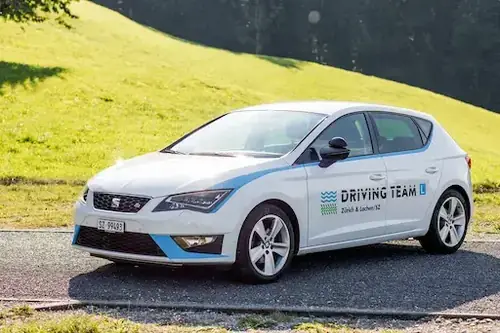
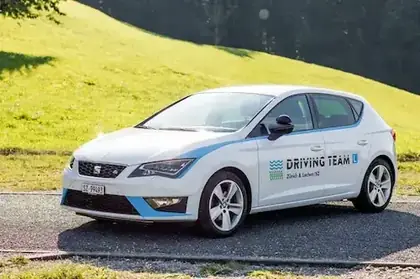
perf: resize card images to 420px and compress to quality 72 for faster load
Made-with: Cursor

diff --git a/apps/website/pages/index.vue b/apps/website/pages/index.vue
@@ -41,7 +41,7 @@
             <!-- Auto -->
             <a href="/auto-fahrschule/" class="category-card group relative overflow-hidden rounded-2xl shadow-lg hover:shadow-2xl transition-all duration-500 transform hover:-translate-y-2">
               <div class="absolute inset-0 bg-gradient-to-br from-primary-500 to-primary-700 group-hover:from-primary-600 group-hover:to-primary-800 transition-all duration-500"></div>
-              <img src="/images/categories/auto-fahrschule.webp" width="500" height="336" alt="Auto Fahrschule Zürich - Kategorie B Fahrstunden mit Driving Team" class="absolute inset-0 w-full h-full object-cover opacity-20 group-hover:opacity-40 transition-all duration-500" loading="eager" fetchpriority="high" />
+              <img src="/images/categories/auto-fahrschule.webp" width="420" height="282" alt="Auto Fahrschule Zürich - Kategorie B Fahrstunden mit Driving Team" class="absolute inset-0 w-full h-full object-cover opacity-20 group-hover:opacity-40 transition-all duration-500" loading="eager" fetchpriority="high" />
               <div class="absolute inset-0 opacity-0 group-hover:opacity-20 bg-white transition-opacity duration-500"></div>
               <div class="relative p-8 h-full flex flex-col justify-center items-center z-10 text-center">
                 <div class="opacity-100 group-hover:opacity-0 transition-opacity duration-300">
@@ -57,7 +57,7 @@
             <!-- Motorrad -->
             <a href="/motorrad-fahrschule/" class="category-card group relative overflow-hidden rounded-2xl shadow-lg hover:shadow-2xl transition-all duration-500 transform hover:-translate-y-2" style="animation-delay: 0.1s">
               <div class="absolute inset-0 bg-gradient-to-br from-red-500 to-red-700 group-hover:from-red-600 group-hover:to-red-800 transition-all duration-500"></div>
-              <img src="/images/categories/motorrad-fahrschule.webp" width="500" height="332" alt="Motorrad Fahrschule Zürich - Kategorie A1, A35kW, A mit Driving Team" class="absolute inset-0 w-full h-full object-cover opacity-20 group-hover:opacity-40 transition-all duration-500" loading="lazy" />
+              <img src="/images/categories/motorrad-fahrschule.webp" width="420" height="278" alt="Motorrad Fahrschule Zürich - Kategorie A1, A35kW, A mit Driving Team" class="absolute inset-0 w-full h-full object-cover opacity-20 group-hover:opacity-40 transition-all duration-500" loading="lazy" />
               <div class="absolute inset-0 opacity-0 group-hover:opacity-20 bg-white transition-opacity duration-500"></div>
               <div class="relative p-8 h-full flex flex-col justify-center items-center z-10 text-center">
                 <div class="opacity-100 group-hover:opacity-0 transition-opacity duration-300">
@@ -73,7 +73,7 @@
             <!-- Lastwagen -->
             <a href="/lastwagen-fahrschule/" class="category-card group relative overflow-hidden rounded-2xl shadow-lg hover:shadow-2xl transition-all duration-500 transform hover:-translate-y-2" style="animation-delay: 0.2s">
               <div class="absolute inset-0 bg-gradient-to-br from-yellow-500 to-yellow-700 group-hover:from-yellow-600 group-hover:to-yellow-800 transition-all duration-500"></div>
-              <img src="/images/categories/lastwagen-fahrschule.webp" width="500" height="328" alt="Lastwagen Fahrschule Zürich - Kategorie C1, C, CE mit Driving Team" class="absolute inset-0 w-full h-full object-cover opacity-20 group-hover:opacity-40 transition-all duration-500" loading="lazy" />
+              <img src="/images/categories/lastwagen-fahrschule.webp" width="420" height="275" alt="Lastwagen Fahrschule Zürich - Kategorie C1, C, CE mit Driving Team" class="absolute inset-0 w-full h-full object-cover opacity-20 group-hover:opacity-40 transition-all duration-500" loading="lazy" />
               <div class="absolute inset-0 opacity-0 group-hover:opacity-20 bg-white transition-opacity duration-500"></div>
               <div class="relative p-8 h-full flex flex-col justify-center items-center z-10 text-center">
                 <div class="opacity-100 group-hover:opacity-0 transition-opacity duration-300">
@@ -89,7 +89,7 @@
             <!-- Taxi -->
             <a href="/taxi-fahrschule/" class="category-card group relative overflow-hidden rounded-2xl shadow-lg hover:shadow-2xl transition-all duration-500 transform hover:-translate-y-2" style="animation-delay: 0.3s">
               <div class="absolute inset-0 bg-gradient-to-br from-purple-500 to-purple-700 group-hover:from-purple-600 group-hover:to-purple-800 transition-all duration-500"></div>
-              <img src="/images/categories/taxi-fahrschule.webp" width="500" height="333" alt="Taxi Fahrschule Zürich - BPT 121 & 122 mit Driving Team" class="absolute inset-0 w-full h-full object-cover opacity-20 group-hover:opacity-40 transition-all duration-500" loading="lazy" />
+              <img src="/images/categories/taxi-fahrschule.webp" width="420" height="279" alt="Taxi Fahrschule Zürich - BPT 121 & 122 mit Driving Team" class="absolute inset-0 w-full h-full object-cover opacity-20 group-hover:opacity-40 transition-all duration-500" loading="lazy" />
               <div class="absolute inset-0 opacity-0 group-hover:opacity-20 bg-white transition-opacity duration-500"></div>
               <div class="relative p-8 h-full flex flex-col justify-center items-center z-10 text-center">
                 <div class="opacity-100 group-hover:opacity-0 transition-opacity duration-300">
@@ -105,7 +105,7 @@
             <!-- Bus -->
             <a href="/bus-fahrschule/" class="category-card group relative overflow-hidden rounded-2xl shadow-lg hover:shadow-2xl transition-all duration-500 transform hover:-translate-y-2" style="animation-delay: 0.4s">
               <div class="absolute inset-0 bg-gradient-to-br from-green-500 to-green-700 group-hover:from-green-600 group-hover:to-green-800 transition-all duration-500"></div>
-              <img src="/images/categories/bus-fahrschule.webp" width="500" height="281" alt="Bus Fahrschule Zürich - Kategorie D1 & D mit Driving Team" class="absolute inset-0 w-full h-full object-cover opacity-20 group-hover:opacity-40 transition-all duration-500" loading="lazy" />
+              <img src="/images/categories/bus-fahrschule.webp" width="420" height="236" alt="Bus Fahrschule Zürich - Kategorie D1 & D mit Driving Team" class="absolute inset-0 w-full h-full object-cover opacity-20 group-hover:opacity-40 transition-all duration-500" loading="lazy" />
               <div class="absolute inset-0 opacity-0 group-hover:opacity-20 bg-white transition-opacity duration-500"></div>
               <div class="relative p-8 h-full flex flex-col justify-center items-center z-10 text-center">
                 <div class="opacity-100 group-hover:opacity-0 transition-opacity duration-300">
@@ -121,7 +121,7 @@
             <!-- Anhänger -->
             <a href="/anhaenger-fahrschule/" class="category-card group relative overflow-hidden rounded-2xl shadow-lg hover:shadow-2xl transition-all duration-500 transform hover:-translate-y-2" style="animation-delay: 0.5s">
               <div class="absolute inset-0 bg-gradient-to-br from-orange-500 to-orange-700 group-hover:from-orange-600 group-hover:to-orange-800 transition-all duration-500"></div>
-              <img src="/images/categories/anhaenger-fahrschule-new.webp" width="500" height="333" alt="Anhänger Fahrschule Zürich - Kategorie BE mit Driving Team" class="absolute inset-0 w-full h-full object-cover opacity-20 group-hover:opacity-40 transition-all duration-500" loading="lazy" />
+              <img src="/images/categories/anhaenger-fahrschule-new.webp" width="420" height="279" alt="Anhänger Fahrschule Zürich - Kategorie BE mit Driving Team" class="absolute inset-0 w-full h-full object-cover opacity-20 group-hover:opacity-40 transition-all duration-500" loading="lazy" />
               <div class="absolute inset-0 opacity-0 group-hover:opacity-20 bg-white transition-opacity duration-500"></div>
               <div class="relative p-8 h-full flex flex-col justify-center items-center z-10 text-center">
                 <div class="opacity-100 group-hover:opacity-0 transition-opacity duration-300">
@@ -137,7 +137,7 @@
             <!-- Motorboot -->
             <a href="/motorboot/" class="category-card group relative overflow-hidden rounded-2xl shadow-lg hover:shadow-2xl transition-all duration-500 transform hover:-translate-y-2" style="animation-delay: 0.6s">
               <div class="absolute inset-0 bg-gradient-to-br from-cyan-500 to-cyan-700 group-hover:from-cyan-600 group-hover:to-cyan-800 transition-all duration-500"></div>
-              <img src="/images/categories/motorboot.webp" width="500" height="333" alt="Motorboot Fahrschule Zürichsee - Kategorie A mit Driving Team" class="absolute inset-0 w-full h-full object-cover opacity-20 group-hover:opacity-40 transition-all duration-500" loading="lazy" />
+              <img src="/images/categories/motorboot.webp" width="420" height="279" alt="Motorboot Fahrschule Zürichsee - Kategorie A mit Driving Team" class="absolute inset-0 w-full h-full object-cover opacity-20 group-hover:opacity-40 transition-all duration-500" loading="lazy" />
               <div class="absolute inset-0 opacity-0 group-hover:opacity-20 bg-white transition-opacity duration-500"></div>
               <div class="relative p-8 h-full flex flex-col justify-center items-center z-10 text-center">
                 <div class="opacity-100 group-hover:opacity-0 transition-opacity duration-300">
@@ -153,7 +153,7 @@
             <!-- Kontrollfahrt -->
             <a href="/kontrollfahrt/" class="category-card group relative overflow-hidden rounded-2xl shadow-lg hover:shadow-2xl transition-all duration-500 transform hover:-translate-y-2" style="animation-delay: 0.7s">
               <div class="absolute inset-0 bg-gradient-to-br from-primary-500 to-primary-700 group-hover:from-primary-600 group-hover:to-primary-800 transition-all duration-500"></div>
-              <img src="/images/categories/kontrollfahrt.webp" width="500" height="333" alt="Kontrollfahrt Zürich - Fahrertest für alle Kategorien mit Driving Team" class="absolute inset-0 w-full h-full object-cover opacity-20 group-hover:opacity-40 transition-all duration-500" loading="lazy" />
+              <img src="/images/categories/kontrollfahrt.webp" width="420" height="279" alt="Kontrollfahrt Zürich - Fahrertest für alle Kategorien mit Driving Team" class="absolute inset-0 w-full h-full object-cover opacity-20 group-hover:opacity-40 transition-all duration-500" loading="lazy" />
               <div class="absolute inset-0 opacity-0 group-hover:opacity-20 bg-white transition-opacity duration-500"></div>
               <div class="relative p-8 h-full flex flex-col justify-center items-center z-10 text-center">
                 <div class="opacity-100 group-hover:opacity-0 transition-opacity duration-300">
@@ -197,7 +197,7 @@
             <!-- Auto Theorie -->
             <a href="/auto-theorie/" class="category-card group relative overflow-hidden rounded-2xl shadow-lg hover:shadow-2xl transition-all duration-500 transform hover:-translate-y-2 h-40 md:h-48">
               <div class="absolute inset-0 bg-gradient-to-br from-primary-500 to-primary-700 group-hover:from-primary-600 group-hover:to-primary-800 transition-all duration-500"></div>
-              <img src="/images/courses/theorie.webp" width="500" height="333" alt="Auto Theorie" class="absolute inset-0 w-full h-full object-cover opacity-20 group-hover:opacity-40 transition-all duration-500" loading="lazy" />
+              <img src="/images/courses/theorie.webp" width="420" height="279" alt="Auto Theorie" class="absolute inset-0 w-full h-full object-cover opacity-20 group-hover:opacity-40 transition-all duration-500" loading="lazy" />
               <div class="absolute inset-0 opacity-0 group-hover:opacity-20 bg-white transition-opacity duration-500"></div>
               <div class="relative p-6 h-full flex flex-col justify-center items-center z-10 text-center">
                 <div class="opacity-100 group-hover:opacity-0 transition-opacity duration-300">
@@ -212,7 +212,7 @@
             <!-- Nothelferkurse -->
             <a href="/nothelferkurs/" class="category-card group relative overflow-hidden rounded-2xl shadow-lg hover:shadow-2xl transition-all duration-500 transform hover:-translate-y-2 h-40 md:h-48" style="animation-delay: 0.1s">
               <div class="absolute inset-0 bg-gradient-to-br from-red-500 to-red-700 group-hover:from-red-600 group-hover:to-red-800 transition-all duration-500"></div>
-              <img src="/images/courses/nothelfer.webp" width="500" height="333" alt="Nothelferkurse" class="absolute inset-0 w-full h-full object-cover opacity-20 group-hover:opacity-40 transition-all duration-500" loading="lazy" />
+              <img src="/images/courses/nothelfer.webp" width="420" height="279" alt="Nothelferkurse" class="absolute inset-0 w-full h-full object-cover opacity-20 group-hover:opacity-40 transition-all duration-500" loading="lazy" />
               <div class="absolute inset-0 opacity-0 group-hover:opacity-20 bg-white transition-opacity duration-500"></div>
               <div class="relative p-6 h-full flex flex-col justify-center items-center z-10 text-center">
                 <div class="opacity-100 group-hover:opacity-0 transition-opacity duration-300">
@@ -227,7 +227,7 @@
             <!-- Motorrad Grundkurs -->
             <a href="/motorrad-grundkurs/" class="category-card group relative overflow-hidden rounded-2xl shadow-lg hover:shadow-2xl transition-all duration-500 transform hover:-translate-y-2 h-40 md:h-48" style="animation-delay: 0.2s">
               <div class="absolute inset-0 bg-gradient-to-br from-orange-500 to-orange-700 group-hover:from-orange-600 group-hover:to-orange-800 transition-all duration-500"></div>
-              <img src="/images/courses/motorrad-grundkurs.webp" width="500" height="296" alt="Motorrad Grundkurs" class="absolute inset-0 w-full h-full object-cover opacity-20 group-hover:opacity-40 transition-all duration-500" loading="lazy" />
+              <img src="/images/courses/motorrad-grundkurs.webp" width="420" height="248" alt="Motorrad Grundkurs" class="absolute inset-0 w-full h-full object-cover opacity-20 group-hover:opacity-40 transition-all duration-500" loading="lazy" />
               <div class="absolute inset-0 opacity-0 group-hover:opacity-20 bg-white transition-opacity duration-500"></div>
               <div class="relative p-6 h-full flex flex-col justify-center items-center z-10 text-center">
                 <div class="opacity-100 group-hover:opacity-0 transition-opacity duration-300">
@@ -242,7 +242,7 @@
             <!-- VKU Kurse -->
             <a href="/vku-kurse/" class="category-card group relative overflow-hidden rounded-2xl shadow-lg hover:shadow-2xl transition-all duration-500 transform hover:-translate-y-2 h-40 md:h-48" style="animation-delay: 0.3s">
               <div class="absolute inset-0 bg-gradient-to-br from-green-500 to-green-700 group-hover:from-green-600 group-hover:to-green-800 transition-all duration-500"></div>
-              <img src="/images/courses/vku.webp" width="500" height="333" alt="VKU Kurse" class="absolute inset-0 w-full h-full object-cover opacity-20 group-hover:opacity-40 transition-all duration-500" loading="lazy" />
+              <img src="/images/courses/vku.webp" width="420" height="279" alt="VKU Kurse" class="absolute inset-0 w-full h-full object-cover opacity-20 group-hover:opacity-40 transition-all duration-500" loading="lazy" />
               <div class="absolute inset-0 opacity-0 group-hover:opacity-20 bg-white transition-opacity duration-500"></div>
               <div class="relative p-6 h-full flex flex-col justify-center items-center z-10 text-center">
                 <div class="opacity-100 group-hover:opacity-0 transition-opacity duration-300">
@@ -265,7 +265,7 @@
             <!-- CZV Grundkurs -->
             <a href="/czv-grundkurs/" class="category-card group relative overflow-hidden rounded-2xl shadow-lg hover:shadow-2xl transition-all duration-500 transform hover:-translate-y-2 h-40 md:h-48">
               <div class="absolute inset-0 bg-gradient-to-br from-primary-500 to-primary-700 group-hover:from-primary-600 group-hover:to-primary-800 transition-all duration-500"></div>
-              <img src="/images/czv-grundkurs.webp" width="500" height="333" alt="CZV Grundkurs" class="absolute inset-0 w-full h-full object-cover opacity-20 group-hover:opacity-40 transition-all duration-500" loading="lazy" />
+              <img src="/images/czv-grundkurs.webp" width="420" height="279" alt="CZV Grundkurs" class="absolute inset-0 w-full h-full object-cover opacity-20 group-hover:opacity-40 transition-all duration-500" loading="lazy" />
               <div class="absolute inset-0 opacity-0 group-hover:opacity-20 bg-white transition-opacity duration-500"></div>
               <div class="relative p-6 h-full flex flex-col justify-center items-center z-10 text-center">
                 <div class="opacity-100 group-hover:opacity-0 transition-opacity duration-300">
@@ -280,7 +280,7 @@
             <!-- CZV Weiterbildung -->
             <a href="/czv-weiterbildung/" class="category-card group relative overflow-hidden rounded-2xl shadow-lg hover:shadow-2xl transition-all duration-500 transform hover:-translate-y-2 h-40 md:h-48" style="animation-delay: 0.1s">
               <div class="absolute inset-0 bg-gradient-to-br from-pink-500 to-pink-700 group-hover:from-pink-600 group-hover:to-pink-800 transition-all duration-500"></div>
-              <img src="/images/courses/czv-weiterbildung.webp" width="500" height="332" alt="CZV Weiterbildung" class="absolute inset-0 w-full h-full object-cover opacity-20 group-hover:opacity-40 transition-all duration-500" loading="lazy" />
+              <img src="/images/courses/czv-weiterbildung.webp" width="420" height="278" alt="CZV Weiterbildung" class="absolute inset-0 w-full h-full object-cover opacity-20 group-hover:opacity-40 transition-all duration-500" loading="lazy" />
               <div class="absolute inset-0 opacity-0 group-hover:opacity-20 bg-white transition-opacity duration-500"></div>
               <div class="relative p-6 h-full flex flex-col justify-center items-center z-10 text-center">
                 <div class="opacity-100 group-hover:opacity-0 transition-opacity duration-300">
@@ -295,7 +295,7 @@
             <!-- WAB Kurse -->
             <a href="/wab-kurse/" class="category-card group relative overflow-hidden rounded-2xl shadow-lg hover:shadow-2xl transition-all duration-500 transform hover:-translate-y-2 h-40 md:h-48" style="animation-delay: 0.2s">
               <div class="absolute inset-0 bg-gradient-to-br from-teal-500 to-teal-700 group-hover:from-teal-600 group-hover:to-teal-800 transition-all duration-500"></div>
-              <img src="/images/wab-kurs.webp" width="500" height="418" alt="WAB Kurse" class="absolute inset-0 w-full h-full object-cover opacity-20 group-hover:opacity-40 transition-all duration-500" loading="lazy" />
+              <img src="/images/wab-kurs.webp" width="420" height="351" alt="WAB Kurse" class="absolute inset-0 w-full h-full object-cover opacity-20 group-hover:opacity-40 transition-all duration-500" loading="lazy" />
               <div class="absolute inset-0 opacity-0 group-hover:opacity-20 bg-white transition-opacity duration-500"></div>
               <div class="relative p-6 h-full flex flex-col justify-center items-center z-10 text-center">
                 <div class="opacity-100 group-hover:opacity-0 transition-opacity duration-300">
@@ -310,7 +310,7 @@
             <!-- Motorrad-Weiterbildung -->
             <a href="/motorrad-weiterbildung/" class="category-card group relative overflow-hidden rounded-2xl shadow-lg hover:shadow-2xl transition-all duration-500 transform hover:-translate-y-2 h-40 md:h-48" style="animation-delay: 0.3s">
               <div class="absolute inset-0 bg-gradient-to-br from-purple-500 to-purple-700 group-hover:from-purple-600 group-hover:to-purple-800 transition-all duration-500"></div>
-              <img src="/images/motorrad-weiterbildung.webp" width="500" height="333" alt="Motorrad-Weiterbildung" class="absolute inset-0 w-full h-full object-cover opacity-20 group-hover:opacity-40 transition-all duration-500" loading="lazy" />
+              <img src="/images/motorrad-weiterbildung.webp" width="420" height="279" alt="Motorrad-Weiterbildung" class="absolute inset-0 w-full h-full object-cover opacity-20 group-hover:opacity-40 transition-all duration-500" loading="lazy" />
               <div class="absolute inset-0 opacity-0 group-hover:opacity-20 bg-white transition-opacity duration-500"></div>
               <div class="relative p-6 h-full flex flex-col justify-center items-center z-10 text-center">
                 <div class="opacity-100 group-hover:opacity-0 transition-opacity duration-300">

diff --git a/apps/website/components/PriceSection.vue b/apps/website/components/PriceSection.vue
@@ -11,7 +11,7 @@
           @scroll.passive="onScroll"
         >
           <!-- Kategorie B - Auto -->
-          <div class="price-card snap-center shrink-0 w-[80vw] sm:w-[55vw] md:w-[40vw] lg:w-[28vw] max-w-sm bg-gradient-to-br from-primary-50 to-primary-100 rounded-2xl p-6 shadow-lg">
+          <div class="snap-center shrink-0 w-[80vw] sm:w-[55vw] md:w-[40vw] lg:w-[28vw] max-w-sm bg-gradient-to-br from-primary-50 to-primary-100 rounded-2xl p-6 shadow-lg transition-[transform,box-shadow] duration-300 ease-in-out hover:-translate-y-1 hover:shadow-[0_16px_40px_rgba(0,0,0,0.12)]">
             <div class="text-3xl mb-3">🚗</div>
             <h3 class="text-xl font-bold text-gray-900 mb-1">Auto</h3>
             <p class="text-sm text-gray-600 mb-5">Kategorie B · 45 Min</p>
@@ -31,7 +31,7 @@
           </div>
 
           <!-- Kategorie A - Motorrad -->
-          <div class="price-card snap-center shrink-0 w-[80vw] sm:w-[55vw] md:w-[40vw] lg:w-[28vw] max-w-sm bg-gradient-to-br from-red-50 to-red-100 rounded-2xl p-6 shadow-lg">
+          <div class="snap-center shrink-0 transition-[transform,box-shadow] duration-300 ease-in-out hover:-translate-y-1 hover:shadow-[0_16px_40px_rgba(0,0,0,0.12)] w-[80vw] sm:w-[55vw] md:w-[40vw] lg:w-[28vw] max-w-sm bg-gradient-to-br from-red-50 to-red-100 rounded-2xl p-6 shadow-lg">
             <div class="text-3xl mb-3">🏍</div>
             <h3 class="text-xl font-bold text-gray-900 mb-1">Motorrad</h3>
             <p class="text-sm text-gray-600 mb-5">Kategorie A · 45 Min</p>
@@ -51,7 +51,7 @@
           </div>
 
           <!-- Kategorie BE - Anhänger -->
-          <div class="price-card snap-center shrink-0 w-[80vw] sm:w-[55vw] md:w-[40vw] lg:w-[28vw] max-w-sm bg-gradient-to-br from-amber-50 to-amber-100 rounded-2xl p-6 shadow-lg">
+          <div class="snap-center shrink-0 transition-[transform,box-shadow] duration-300 ease-in-out hover:-translate-y-1 hover:shadow-[0_16px_40px_rgba(0,0,0,0.12)] w-[80vw] sm:w-[55vw] md:w-[40vw] lg:w-[28vw] max-w-sm bg-gradient-to-br from-amber-50 to-amber-100 rounded-2xl p-6 shadow-lg">
             <div class="text-3xl mb-3">🚛</div>
             <h3 class="text-xl font-bold text-gray-900 mb-1">Anhänger</h3>
             <p class="text-sm text-gray-600 mb-5">Kategorie BE · 45 Min</p>
@@ -71,7 +71,7 @@
           </div>
 
           <!-- Kategorie C1/D1 - Gesellschaftswagen -->
-          <div class="price-card snap-center shrink-0 w-[80vw] sm:w-[55vw] md:w-[40vw] lg:w-[28vw] max-w-sm bg-gradient-to-br from-indigo-50 to-indigo-100 rounded-2xl p-6 shadow-lg">
+          <div class="snap-center shrink-0 transition-[transform,box-shadow] duration-300 ease-in-out hover:-translate-y-1 hover:shadow-[0_16px_40px_rgba(0,0,0,0.12)] w-[80vw] sm:w-[55vw] md:w-[40vw] lg:w-[28vw] max-w-sm bg-gradient-to-br from-indigo-50 to-indigo-100 rounded-2xl p-6 shadow-lg">
             <div class="text-3xl mb-3">🚐</div>
             <h3 class="text-xl font-bold text-gray-900 mb-1">Gesellschaftswagen</h3>
             <p class="text-sm text-gray-600 mb-5">Kategorie C1/D1 · 45 Min</p>
@@ -91,7 +91,7 @@
           </div>
 
           <!-- Kategorie C - Lastwagen -->
-          <div class="price-card snap-center shrink-0 w-[80vw] sm:w-[55vw] md:w-[40vw] lg:w-[28vw] max-w-sm bg-gradient-to-br from-slate-50 to-slate-100 rounded-2xl p-6 shadow-lg">
+          <div class="snap-center shrink-0 transition-[transform,box-shadow] duration-300 ease-in-out hover:-translate-y-1 hover:shadow-[0_16px_40px_rgba(0,0,0,0.12)] w-[80vw] sm:w-[55vw] md:w-[40vw] lg:w-[28vw] max-w-sm bg-gradient-to-br from-slate-50 to-slate-100 rounded-2xl p-6 shadow-lg">
             <div class="text-3xl mb-3">🚚</div>
             <h3 class="text-xl font-bold text-gray-900 mb-1">Lastwagen</h3>
             <p class="text-sm text-gray-600 mb-5">Kategorie C · 45 Min</p>
@@ -111,7 +111,7 @@
           </div>
 
           <!-- Motorboot -->
-          <div class="price-card snap-center shrink-0 w-[80vw] sm:w-[55vw] md:w-[40vw] lg:w-[28vw] max-w-sm bg-gradient-to-br from-blue-50 to-blue-100 rounded-2xl p-6 shadow-lg">
+          <div class="snap-center shrink-0 transition-[transform,box-shadow] duration-300 ease-in-out hover:-translate-y-1 hover:shadow-[0_16px_40px_rgba(0,0,0,0.12)] w-[80vw] sm:w-[55vw] md:w-[40vw] lg:w-[28vw] max-w-sm bg-gradient-to-br from-blue-50 to-blue-100 rounded-2xl p-6 shadow-lg">
             <div class="text-3xl mb-3">🛥</div>
             <h3 class="text-xl font-bold text-gray-900 mb-1">Motorboot</h3>
             <p class="text-sm text-gray-600 mb-5">Bootsführerschein · 45 Min</p>
@@ -131,7 +131,7 @@
           </div>
 
           <!-- Taxi -->
-          <div class="price-card snap-center shrink-0 w-[80vw] sm:w-[55vw] md:w-[40vw] lg:w-[28vw] max-w-sm bg-gradient-to-br from-yellow-50 to-yellow-100 rounded-2xl p-6 shadow-lg">
+          <div class="snap-center shrink-0 transition-[transform,box-shadow] duration-300 ease-in-out hover:-translate-y-1 hover:shadow-[0_16px_40px_rgba(0,0,0,0.12)] w-[80vw] sm:w-[55vw] md:w-[40vw] lg:w-[28vw] max-w-sm bg-gradient-to-br from-yellow-50 to-yellow-100 rounded-2xl p-6 shadow-lg">
             <div class="text-3xl mb-3">🚕</div>
             <h3 class="text-xl font-bold text-gray-900 mb-1">Taxi (BPT)</h3>
             <p class="text-sm text-gray-600 mb-5">Berufspraktische Taxiprüfung · 45 Min</p>
@@ -151,7 +151,7 @@
           </div>
 
           <!-- Bus -->
-          <div class="price-card snap-center shrink-0 w-[80vw] sm:w-[55vw] md:w-[40vw] lg:w-[28vw] max-w-sm bg-gradient-to-br from-green-50 to-green-100 rounded-2xl p-6 shadow-lg">
+          <div class="snap-center shrink-0 transition-[transform,box-shadow] duration-300 ease-in-out hover:-translate-y-1 hover:shadow-[0_16px_40px_rgba(0,0,0,0.12)] w-[80vw] sm:w-[55vw] md:w-[40vw] lg:w-[28vw] max-w-sm bg-gradient-to-br from-green-50 to-green-100 rounded-2xl p-6 shadow-lg">
             <div class="text-3xl mb-3">🚌</div>
             <h3 class="text-xl font-bold text-gray-900 mb-1">Bus</h3>
             <p class="text-sm text-gray-600 mb-5">Kategorie D · 45 Min</p>
@@ -235,14 +235,3 @@ onMounted(() => {
 
 const title = computed(() => 'Unsere Preise')
 </script>
-
-<style scoped>
-.price-card {
-  transition: transform 0.3s ease, box-shadow 0.3s ease;
-}
-
-.price-card:hover {
-  transform: translateY(-4px);
-  box-shadow: 0 16px 40px rgba(0, 0, 0, 0.12);
-}
-</style>
